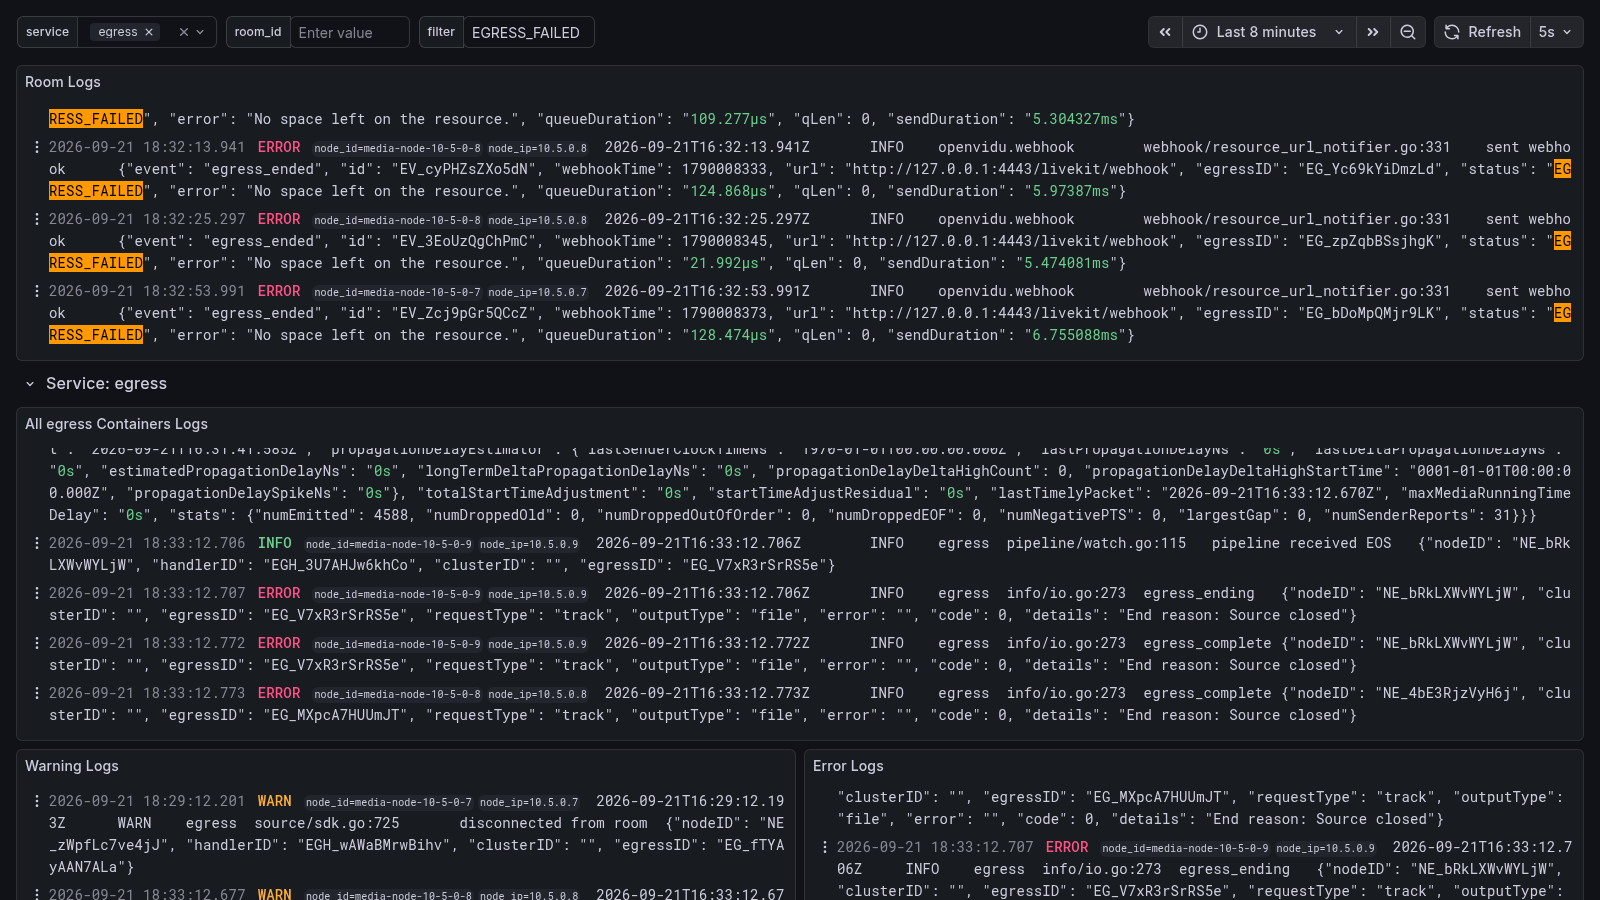
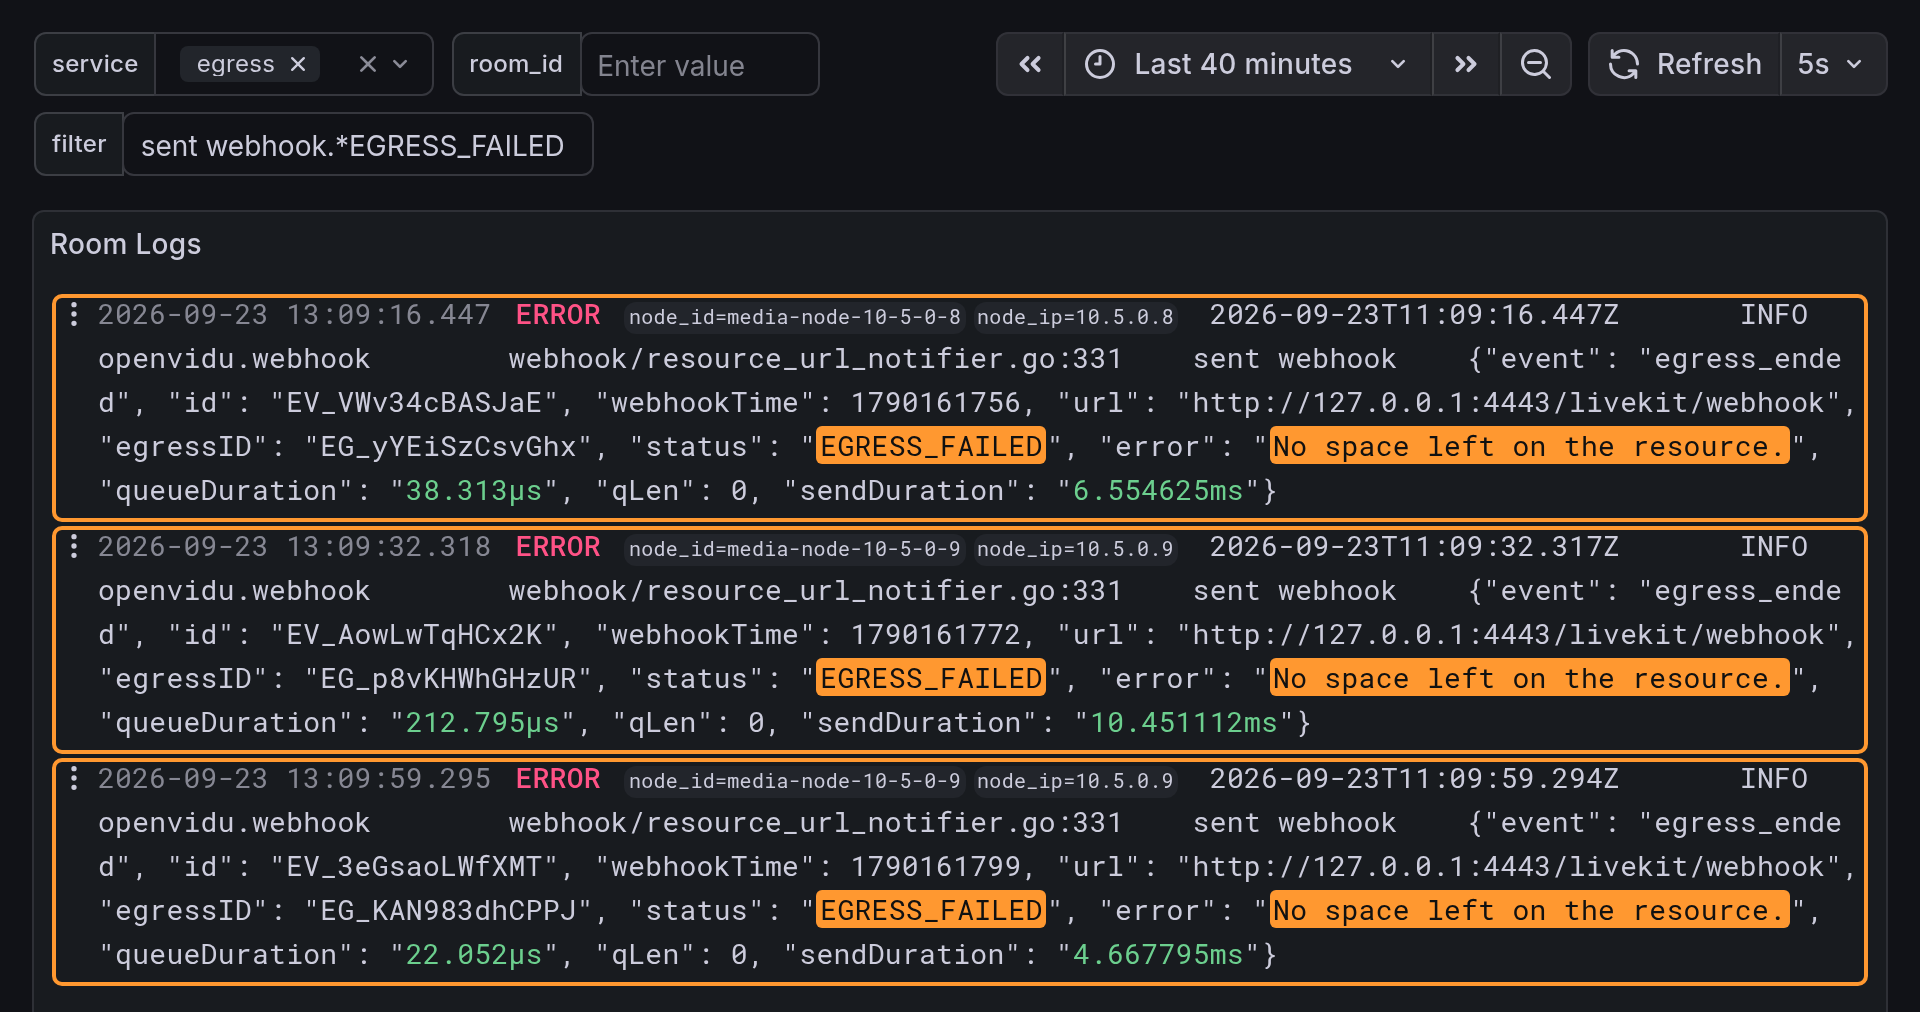
Retake the black hole post screenshots and tighten its wording
Reproduce the bug again in the HA playground (egress 3.5.0, then 3.6.1)
and recapture the three Grafana screenshots so they read at blog width:
one panel each, three or four whole lines, every line boxed and the key
values marked. The discovery shot now shows the node_id label on every
failure across the whole cluster, and the after shot pairs the full
node's rejections with a healthy node starting the recording.

Update the text around those images to match, end the root cause
section on the need for a smarter placement algorithm, and link the
Grafana MCP post from Learn more.

Assisted-by: claude-code - Anthropic - Claude Opus 5.5

diff --git a/docs/blog/posts/YYYY/MM/black-hole-node.md b/docs/blog/posts/YYYY/MM/black-hole-node.md
@@ -45,9 +45,9 @@ The status was identical across the board: `EGRESS_FAILED`, and every `egress_en
 
 At first glance, it seemed as if all Media Nodes had run out of disk space simultaneously. However, that would be a massive coincidence. Before assuming the worst, we needed to pinpoint exactly where this was happening: in how many Media Nodes, and in which ones.
 
-The webhook tells you that a recording failed and why, but it doesn't specify which Media Node hosted the Egress. In an OpenVidu cluster, that could be any of them. We pivoted from the Room logs to the Egress containers themselves, grouped by Media Node. The results were unexpected:
+The webhook tells you that a recording failed and why, but it doesn't specify which Media Node hosted the Egress. In an OpenVidu cluster, that could be any of them. We pivoted from the Room logs to the logs of every container in the cluster, filtered for failed Egresses, and looked at the node label on each line. The results were unexpected:
 
-![The failing Egresses all run on the same Media Node](/assets/images/blog/YYYY/MM/black-hole-node/discover-node.png){ .round-corners loading=lazy }
+![Every egress_failed line in the cluster carries the same node_id label](/assets/images/blog/YYYY/MM/black-hole-node/discover-node.png){ .round-corners loading=lazy }
 
 All failures originated from a single source: one Media Node with a full disk, where Egress processes repeatedly died while attempting to write to the filesystem. The rest of the Media Nodes had plenty of space, and recordings weren't even reaching the healthy ones.
 
@@ -71,15 +71,15 @@ However, a full disk completely subverts this logic:
 
 The broken Media Node had become a black hole: **the more it failed, the more idle it appeared, and the more work it attracted**. The healthy Media Nodes, fully capable of recording, sat there doing nothing.
 
-The underlying problem is the signal used for load balancing. Free CPU indicates if a Media Node is idle, not if it is capable of recording. A Media Node that fails instantly consumes almost no CPU: the more broken it is, the more available it appears. By looking only at CPU, a Media Node without disk space always wins exactly when it is the worst possible candidate. We needed to look at something else.
+The underlying problem is the signal used for load balancing. Free CPU indicates if a Media Node is idle, not if it is capable of recording. A Media Node that fails instantly consumes almost no CPU: the more broken it is, the more available it appears. By looking only at CPU, a Media Node without disk space always wins exactly when it is the worst possible candidate. We needed to make our Egress placement algorithm smarter.
 
 ## The fix
 
 The fix addresses this directly: checking disk availability before accepting a task. The Egress monitor now checks the recording directory; if free space falls below `openvidu.min_disk_space_mb` in `egress.yaml` (512 MB by default), it rejects the request with a clear reason instead of accepting it and dying mid-pipeline. A Media Node that cannot record now steps aside instead of swallowing the work.
 
-With the fix applied to the same cluster, and the disk still full, the affected Media Node now rejects each request and explains why:
+With the fix applied to the same cluster, and the disk still full, the affected Media Node now rejects each request and explains why, while a healthy Media Node picks up the recording:
 
-![The full Media Node rejecting recordings with reason: disk](/assets/images/blog/YYYY/MM/black-hole-node/after-node1-rejects.png){ .round-corners loading=lazy }
+![The full Media Node rejecting recordings with reason: disk while a healthy node starts them](/assets/images/blog/YYYY/MM/black-hole-node/after-node1-rejects.png){ .round-corners loading=lazy }
 
 ```
 WARN egress  can not accept request
@@ -109,5 +109,6 @@ And if you are not running OpenVidu yet, all of this comes with it: every deploy
 ## Learn more
 
 - [Observability in OpenVidu](/docs/self-hosting/production-ready/observability/index.md): the Dashboard and Grafana stack every deployment ships with, and the logs and metrics we followed to trace this.
+- [Debugging WebRTC with an AI agent and Grafana MCP](/blog/posts/2026/08/debugging-webrtc-with-ai-and-grafana-mcp.md): the same Grafana stack, handed to an AI agent that traces each root cause on its own.
 - [How Egress is balanced across Media Nodes](/docs/self-hosting/production-ready/scalability.md#load-balancing-strategies-across-media-nodes): the `cpuload` and `binpack` allocation strategies, and the eligibility check every new Egress request goes through, disk space included.
 - [Troubleshooting recordings](/docs/troubleshooting/recording.md): recordings that fail or return a 503, including the [no disk space free](/docs/troubleshooting/recording.md#no-disk-space-free) case behind this story.
